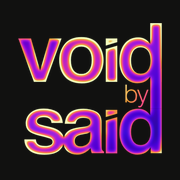
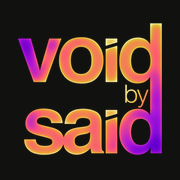
Isı efekti: keskin kenar yerine geniş, yumuşak geçişler; parça ek izleri giderildi; video, paylaşım görseli ve ikonlar yenilendi
Claude-Session: https://claude.ai/code/session_01D3MxqP9EuJHxVQdV5DV6nV

Changed region(s): [[0.0833, 0.1111, 0.9167, 0.8611]]

diff --git a/heatlogo.js b/heatlogo.js
@@ -13,21 +13,25 @@ float n(vec2 p){vec2 i=floor(p),f=fract(p);f=f*f*(3.-2.*f);
 float fbm(vec2 p){float s=0.,a=.5;for(int i=0;i<4;i++){s+=a*n(p);p*=2.03;a*=.5;}return s;}
 vec3 pal(float x){x=clamp(x,0.,1.);
  vec3 c0=vec3(.05,.02,.16),c1=vec3(.16,.10,.86),c2=vec3(.50,.16,.95),c3=vec3(.93,.24,.62);
- vec3 c4=mix(vec3(1.,.50,.28),vec3(.98,.30,.42),lt),c5=mix(vec3(1.,.94,.74),vec3(1.,.47,.22),lt);
+ vec3 c4=mix(vec3(1.,.50,.28),vec3(.98,.30,.42),lt),c5=mix(vec3(1.,.86,.66),vec3(1.,.50,.26),lt);
  if(x<.2)return mix(c0,c1,x/.2);if(x<.4)return mix(c1,c2,(x-.2)/.2);
  if(x<.6)return mix(c2,c3,(x-.4)/.2);if(x<.8)return mix(c3,c4,(x-.6)/.2);return mix(c4,c5,(x-.8)/.2);}
 vec3 hue(vec3 c,float a){vec3 k=vec3(.57735);float co=cos(a);
  return c*co+cross(k,c)*sin(a)+k*dot(k,c)*(1.-co);}
 void main(){
- vec4 s=texture2D(m,uv);float a=s.r,g=s.g;
+ vec4 s=texture2D(m,uv);float a=s.r;
  vec2 q=vec2(uv.x*as,uv.y);
- float w=fbm(q*2.4+vec2(t*.07,-t*.05));
- float sweep=.5+.5*sin((q.x*1.2-q.y)*4.6-t*1.05+w*4.);
- float rim=clamp((1.-g)*2.3,0.,1.);
- float heat=.36+rim*mix(.78,.68,lt);
- heat*=.5+.7*sweep;
- heat+=(w-.5)*.14;
- vec3 col=hue(pal(heat),(sin(t*.21)*.6+(w-.5)*.7)*mix(1.,.4,lt));
+ float w=fbm(q*1.8+vec2(t*.05,-t*.04));
+ // geniş, yavaş akan sıcaklık alanı
+ float f=.5+.5*sin((q.x*.9-q.y*.75)*4.3-t*.6+w*3.2);
+ f=f*f*(3.-2.*f);
+ // kenara yakınlık: iki ölçekte yumuşak geçiş (keskin çizgi yok)
+ float e2=smoothstep(0.,1.,clamp((1.-s.g)*1.45,0.,1.));
+ float e1=smoothstep(.15,1.,clamp((1.-s.b)*1.9,0.,1.));
+ float edge=e2*.7+e1*.3;
+ float heat=.2+.46*f+.34*edge*(.55+.45*f)+(w-.5)*.12;
+ heat=clamp(heat,0.,1.)+(h(gl_FragCoord.xy)-.5)/200.;
+ vec3 col=hue(pal(heat),(sin(t*.17)*.45+(w-.5)*.5)*mix(1.,.4,lt));
  col=clamp(col,0.,1.);
  gl_FragColor=vec4(col*a,a);
 }`;
@@ -78,12 +82,19 @@ void main(){
     if (svg) {
       const vb = svg.viewBox.baseVal, s = Math.min(g.w / vb.width, g.h / vb.height) * sc;
       x.setTransform(s, 0, 0, s, pad * sc + (g.w * sc - vb.width * s) / 2 - vb.x * s, pad * sc + (g.h * sc - vb.height * s) / 2 - vb.y * s);
+      // Bitişik parçaların arasında ince ek izi kalmasın diye her parça ince bir çizgiyle de kapatılır
+      x.strokeStyle = '#fff'; x.lineJoin = 'round'; x.lineWidth = 0.6 / s;
       svg.querySelectorAll('path,polygon,rect,circle').forEach(n => {
-        if (n.tagName === 'rect') return x.fillRect(+n.getAttribute('x') || 0, +n.getAttribute('y') || 0, +n.getAttribute('width'), +n.getAttribute('height'));
-        if (n.tagName === 'circle') { x.beginPath(); x.arc(+n.getAttribute('cx'), +n.getAttribute('cy'), +n.getAttribute('r'), 0, 7); return x.fill(); }
-        let d = n.getAttribute('d');
-        if (!d) { const p = n.getAttribute('points').trim().split(/[\s,]+/).map(Number); d = 'M' + p.join(' ') + 'Z'; }
-        x.fill(new Path2D(d));
+        const A = k => +n.getAttribute(k) || 0;
+        let P;
+        if (n.tagName === 'rect') { P = new Path2D(); P.rect(A('x'), A('y'), A('width'), A('height')); }
+        else if (n.tagName === 'circle') { P = new Path2D(); P.arc(A('cx'), A('cy'), A('r'), 0, Math.PI * 2); }
+        else {
+          let d = n.getAttribute('d');
+          if (!d) { const p = n.getAttribute('points').trim().split(/[\s,]+/).map(Number); d = 'M' + p.join(' ') + 'Z'; }
+          P = new Path2D(d);
+        }
+        x.fill(P); if (n.tagName !== 'rect' && n.tagName !== 'circle') x.stroke(P);
       });
     } else {
       // Metin: CSS satır kutusundaki taban çizgisini yeniden kur
@@ -102,10 +113,10 @@ void main(){
     const px = x.getImageData(0, 0, W, H).data, a = new Float32Array(W * H);
     for (let i = 0; i < W * H; i++) a[i] = px[i * 4 + 3] / 255;
     // Kenar kalınlığı: şeklin kendi kalınlığına göre (ortalama doluluktan kestirim)
-    const r1 = Math.max(1, Math.round(L * 0.011 * k));
-    const gb = blur(a, W, H, r1);
+    const gb = blur(a, W, H, Math.max(1, Math.round(L * 0.024 * k)));
+    const bb = blur(a, W, H, Math.max(1, Math.round(L * 0.010 * k)));
     const rgba = new Uint8Array(W * H * 4);
-    for (let i = 0; i < W * H; i++) { rgba[i * 4] = a[i] * 255; rgba[i * 4 + 1] = Math.min(1, gb[i]) * 255; rgba[i * 4 + 3] = 255; }
+    for (let i = 0; i < W * H; i++) { rgba[i * 4] = a[i] * 255; rgba[i * 4 + 1] = Math.min(1, gb[i]) * 255; rgba[i * 4 + 2] = Math.min(1, bb[i]) * 255; rgba[i * 4 + 3] = 255; }
     return { rgba, W, H, pad };
   }
 

diff --git a/index.html b/index.html
@@ -13,8 +13,8 @@
 <meta property="og:site_name" content="voidbysaid">
 <meta property="og:description" content="Tasarım portfolyosu — dergi, belgesel, kurumsal kimlik, tipografi, video ve web uygulamaları.">
 <meta property="og:url" content="https://www.voidbysaid.studio/">
-<meta property="og:image" content="https://www.voidbysaid.studio/img/og-voidbysaid-5.jpg">
-<meta property="og:image:secure_url" content="https://www.voidbysaid.studio/img/og-voidbysaid-5.jpg">
+<meta property="og:image" content="https://www.voidbysaid.studio/img/og-voidbysaid-6.jpg">
+<meta property="og:image:secure_url" content="https://www.voidbysaid.studio/img/og-voidbysaid-6.jpg">
 <meta property="og:image:type" content="image/jpeg">
 <meta property="og:image:width" content="1200">
 <meta property="og:image:height" content="630">
@@ -24,7 +24,7 @@
 <meta name="twitter:card" content="summary_large_image">
 <meta name="twitter:title" content="voidbysaid — Said Numan Yücel">
 <meta name="twitter:description" content="Tasarım portfolyosu — dergi, belgesel, kurumsal kimlik, tipografi, video ve web uygulamaları.">
-<meta name="twitter:image" content="https://www.voidbysaid.studio/img/og-voidbysaid-5.jpg">
+<meta name="twitter:image" content="https://www.voidbysaid.studio/img/og-voidbysaid-6.jpg">
 <meta name="author" content="Said Numan Yücel">
 <meta name="theme-color" content="#F4F2ED" media="(prefers-color-scheme: light)">
 <meta name="theme-color" content="#111110" media="(prefers-color-scheme: dark)">

diff --git a/en/index.html b/en/index.html
@@ -13,8 +13,8 @@
 <meta property="og:site_name" content="voidbysaid">
 <meta property="og:description" content="Design portfolio — magazines, documentary, brand identity, typography, video and web apps.">
 <meta property="og:url" content="https://www.voidbysaid.studio/en/">
-<meta property="og:image" content="https://www.voidbysaid.studio/img/og-voidbysaid-5.jpg">
-<meta property="og:image:secure_url" content="https://www.voidbysaid.studio/img/og-voidbysaid-5.jpg">
+<meta property="og:image" content="https://www.voidbysaid.studio/img/og-voidbysaid-6.jpg">
+<meta property="og:image:secure_url" content="https://www.voidbysaid.studio/img/og-voidbysaid-6.jpg">
 <meta property="og:image:type" content="image/jpeg">
 <meta property="og:image:width" content="1200">
 <meta property="og:image:height" content="630">
@@ -24,7 +24,7 @@
 <meta name="twitter:card" content="summary_large_image">
 <meta name="twitter:title" content="voidbysaid — Said Numan Yücel">
 <meta name="twitter:description" content="Design portfolio — magazines, documentary, brand identity, typography, video and web apps.">
-<meta name="twitter:image" content="https://www.voidbysaid.studio/img/og-voidbysaid-5.jpg">
+<meta name="twitter:image" content="https://www.voidbysaid.studio/img/og-voidbysaid-6.jpg">
 <meta name="author" content="Said Numan Yücel">
 <meta name="theme-color" content="#F4F2ED" media="(prefers-color-scheme: light)">
 <meta name="theme-color" content="#111110" media="(prefers-color-scheme: dark)">
